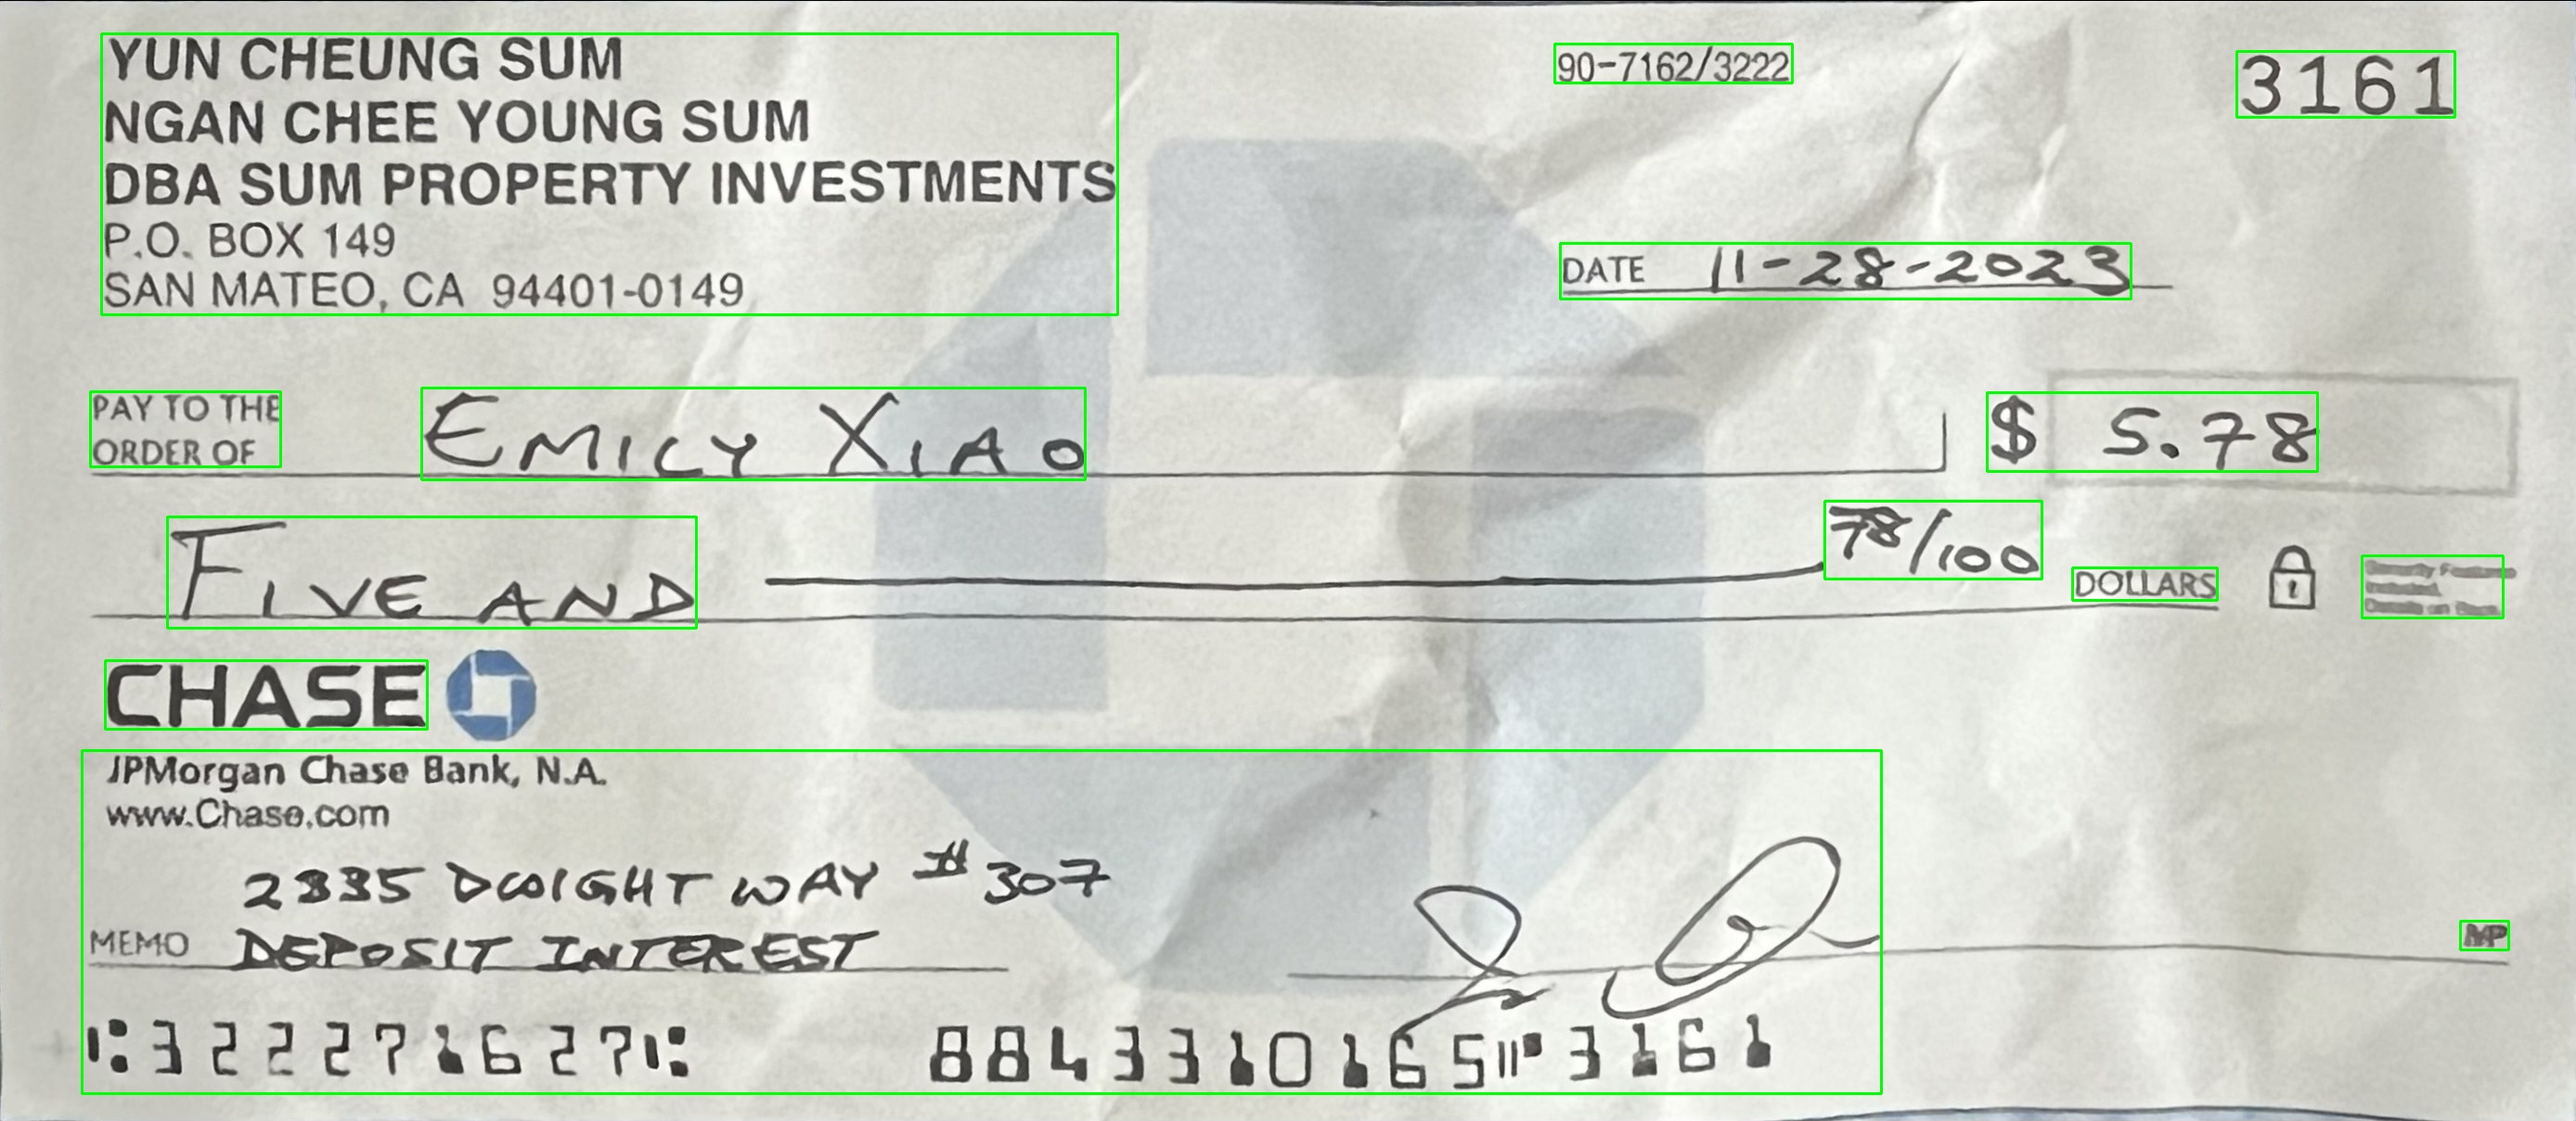
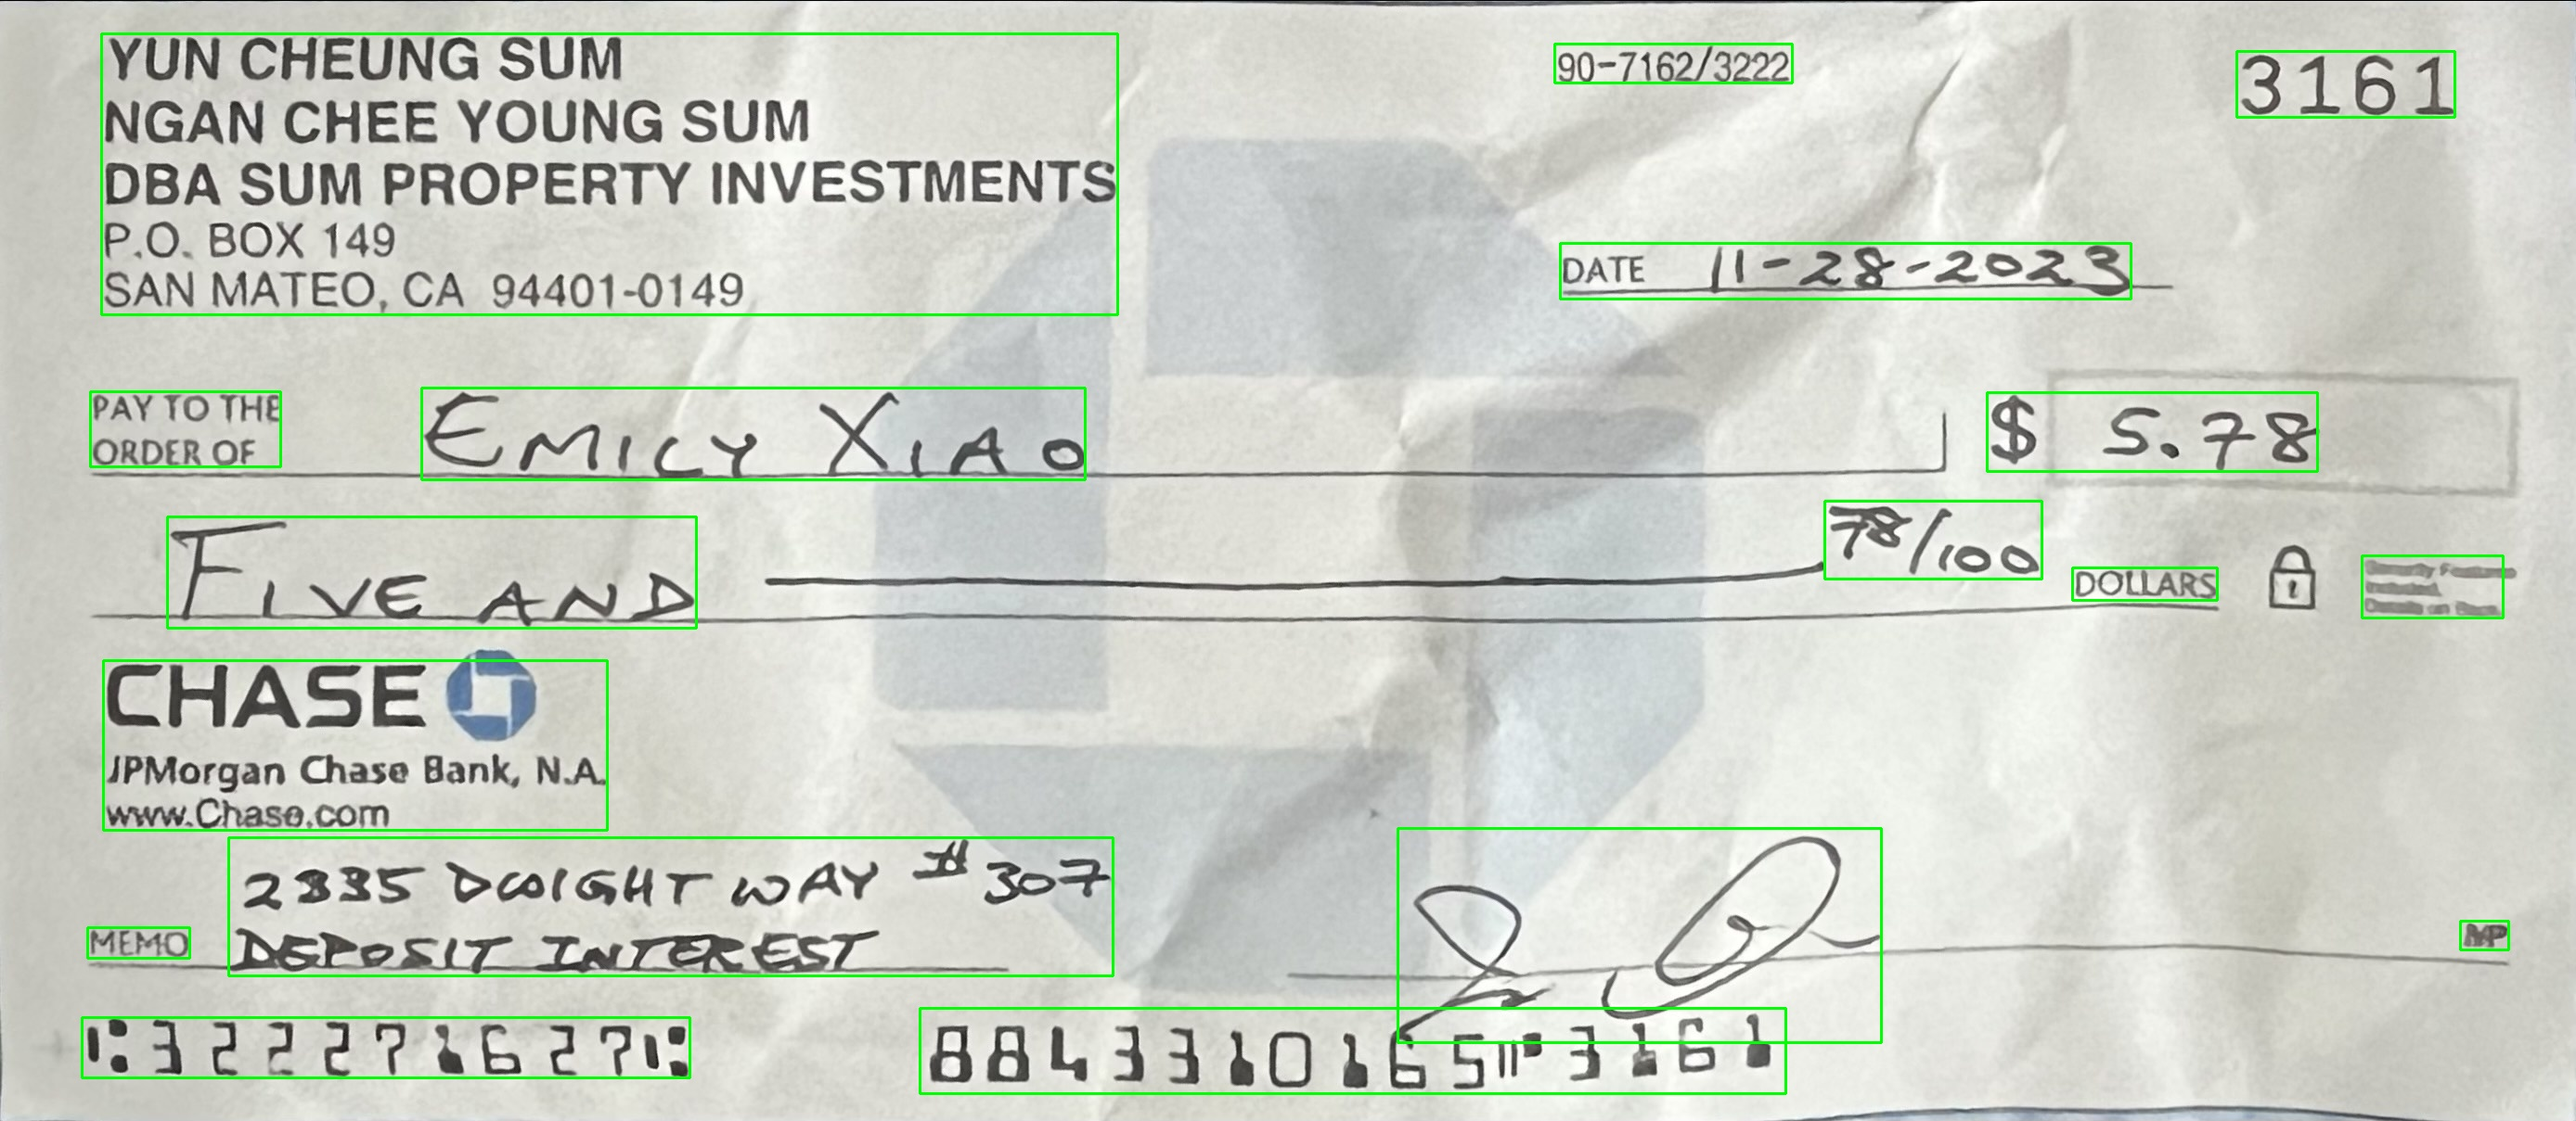
Post-merge move to extract_bboxes

diff --git a/extraction/extract_handwriting.py b/extraction/extract_handwriting.py
@@ -1,6 +1,5 @@
 from enum import Enum
 from pathlib import Path
-from extract_bboxes import BoundingBox, RegionType
 import numpy as np
 import cv2
 
@@ -13,17 +12,15 @@ class Mode(Enum):
 
 def parse_handwriting(
         img_path: Path,
-        region : RegionType,
-        box : BoundingBox,
         mode : Mode,
 ) -> str:
     match mode:
         case Mode.DOC_TR:
-            return parse_handwriting_doctr(img_path, region, box)
+            return parse_handwriting_doctr(img_path)
         case Mode.TR_OCR:
-            return parse_handwriting_trocr(img_path, region, box)
+            return parse_handwriting_trocr(img_path)
         case Mode.LLAVA:
-            return parse_handwriting_llava(img_path, region, box)
+            return parse_handwriting_llava(img_path)
         case Mode.AMAZON_TEXTRACT:
             return parse_handwriting_amazon_textract()
         case _:
@@ -80,11 +77,7 @@ from PIL import Image, ImageDraw
 
 
 
-def parse_handwriting_amazon_textract(
-        # img_path: Path,
-        # region : RegionType,
-        # box : BoundingBox,
-) -> list:
+def parse_handwriting_amazon_textract() -> list:
     """ Parse handwriting using Amazon Textract """
 
     # Get the check which is stored in stevensegawa's bucket called aws-for-checks

diff --git a/extraction/extract_bboxes.py b/extraction/extract_bboxes.py
@@ -246,12 +246,13 @@ bucket_name = 'aws-for-checks'
 file_name = 'warped_IMG_1599.jpg'
 
 #Code to run the algorithm
-max_distance = 20
-max_corner = 20
 bucket_image = get_image(profile, bucket_name, file_name)
 image = cv2.cvtColor(np.array(bucket_image), cv2.COLOR_RGB2BGR)
+max_distance = 20
+max_corner = (int)(image.shape[0] * 0.02)
 bounding_boxes = extract_bounding_boxes(profile, region, bucket_name, file_name)
-merged_rects = merge_nearby_boxes(bounding_boxes, max_distance, max_corner)
+micr_bounding_boxes = bounding_boxes[-2:]
+merged_rects = merge_nearby_boxes(bounding_boxes[:-2], max_distance, max_corner)
 overlapped_merged = merge_overlapping_boxes(merged_rects)
 
 while overlapped_merged != merge_overlapping_boxes(overlapped_merged):
@@ -262,7 +263,10 @@ while overlapped_merged != merge_overlapping_boxes(overlapped_merged):
 # Draw merged rectangles on the image
 for rect in overlapped_merged:
     x, y, w, h = rect
-    print(x, y, w, h)
+    # print(x, y, w, h)
+    cv2.rectangle(image, ((int)(x), (int)(y)), ((int)(x + w), (int)(y + h)), (0, 255, 0), 2)
+for rect in micr_bounding_boxes:
+    x, y, w, h = rect
     cv2.rectangle(image, ((int)(x), (int)(y)), ((int)(x + w), (int)(y + h)), (0, 255, 0), 2)
 
 cv2.imshow("merged boxes", image)
